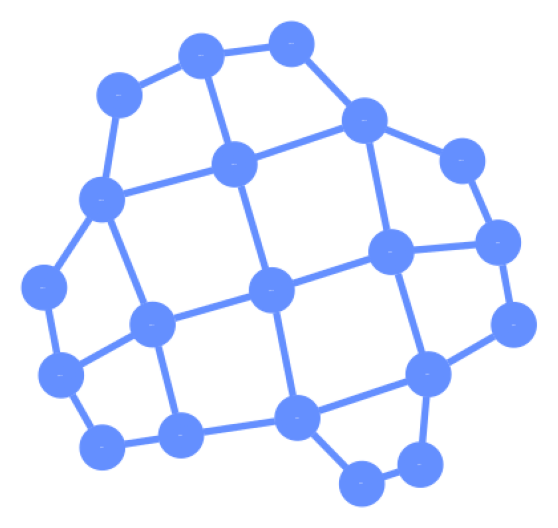
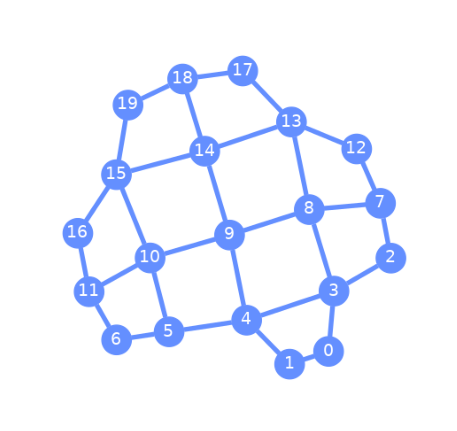
Updated topology to support real qpu (ORNL IQM/crystal)

Changed region(s): [[0.0306, 0.0302, 0.9803, 0.9652]]

diff --git a/topology/topology.py b/topology/topology.py
@@ -217,6 +217,11 @@ def build_backend(key, token=None):
     from iqm.qiskit_iqm import IQMProvider
     from iqm.iqm_client import IQMClient
 
+    # iqm-client rejects a token passed both as an arg and via $IQM_TOKEN
+    # ("sources must not be mixed"). We always pass it explicitly, so drop the
+    # env copy first to leave a single source.
+    os.environ.pop("IQM_TOKEN", None)
+
     alias = REAL_ALIASES[key]
     print(f"Connecting to {SERVER_URL} (alias '{alias}') ...")
     backend = IQMProvider(SERVER_URL, token=token, quantum_computer=alias).get_backend()
@@ -287,7 +292,9 @@ def main() -> None:
     print(f"\nSaved connectivity -> {json_path}")
 
     if args.plot:
-        save_plot(backend, f"{args.backend}_topology.png")
+        from qiskit.visualization import plot_coupling_map
+        plot_coupling_map(backend.num_qubits, None, backend.coupling_map.get_edges()).savefig(f"{args.backend}_topology.png")
+        #save_plot(backend, f"{args.backend}_topology.png")
 
 
 if __name__ == "__main__":
